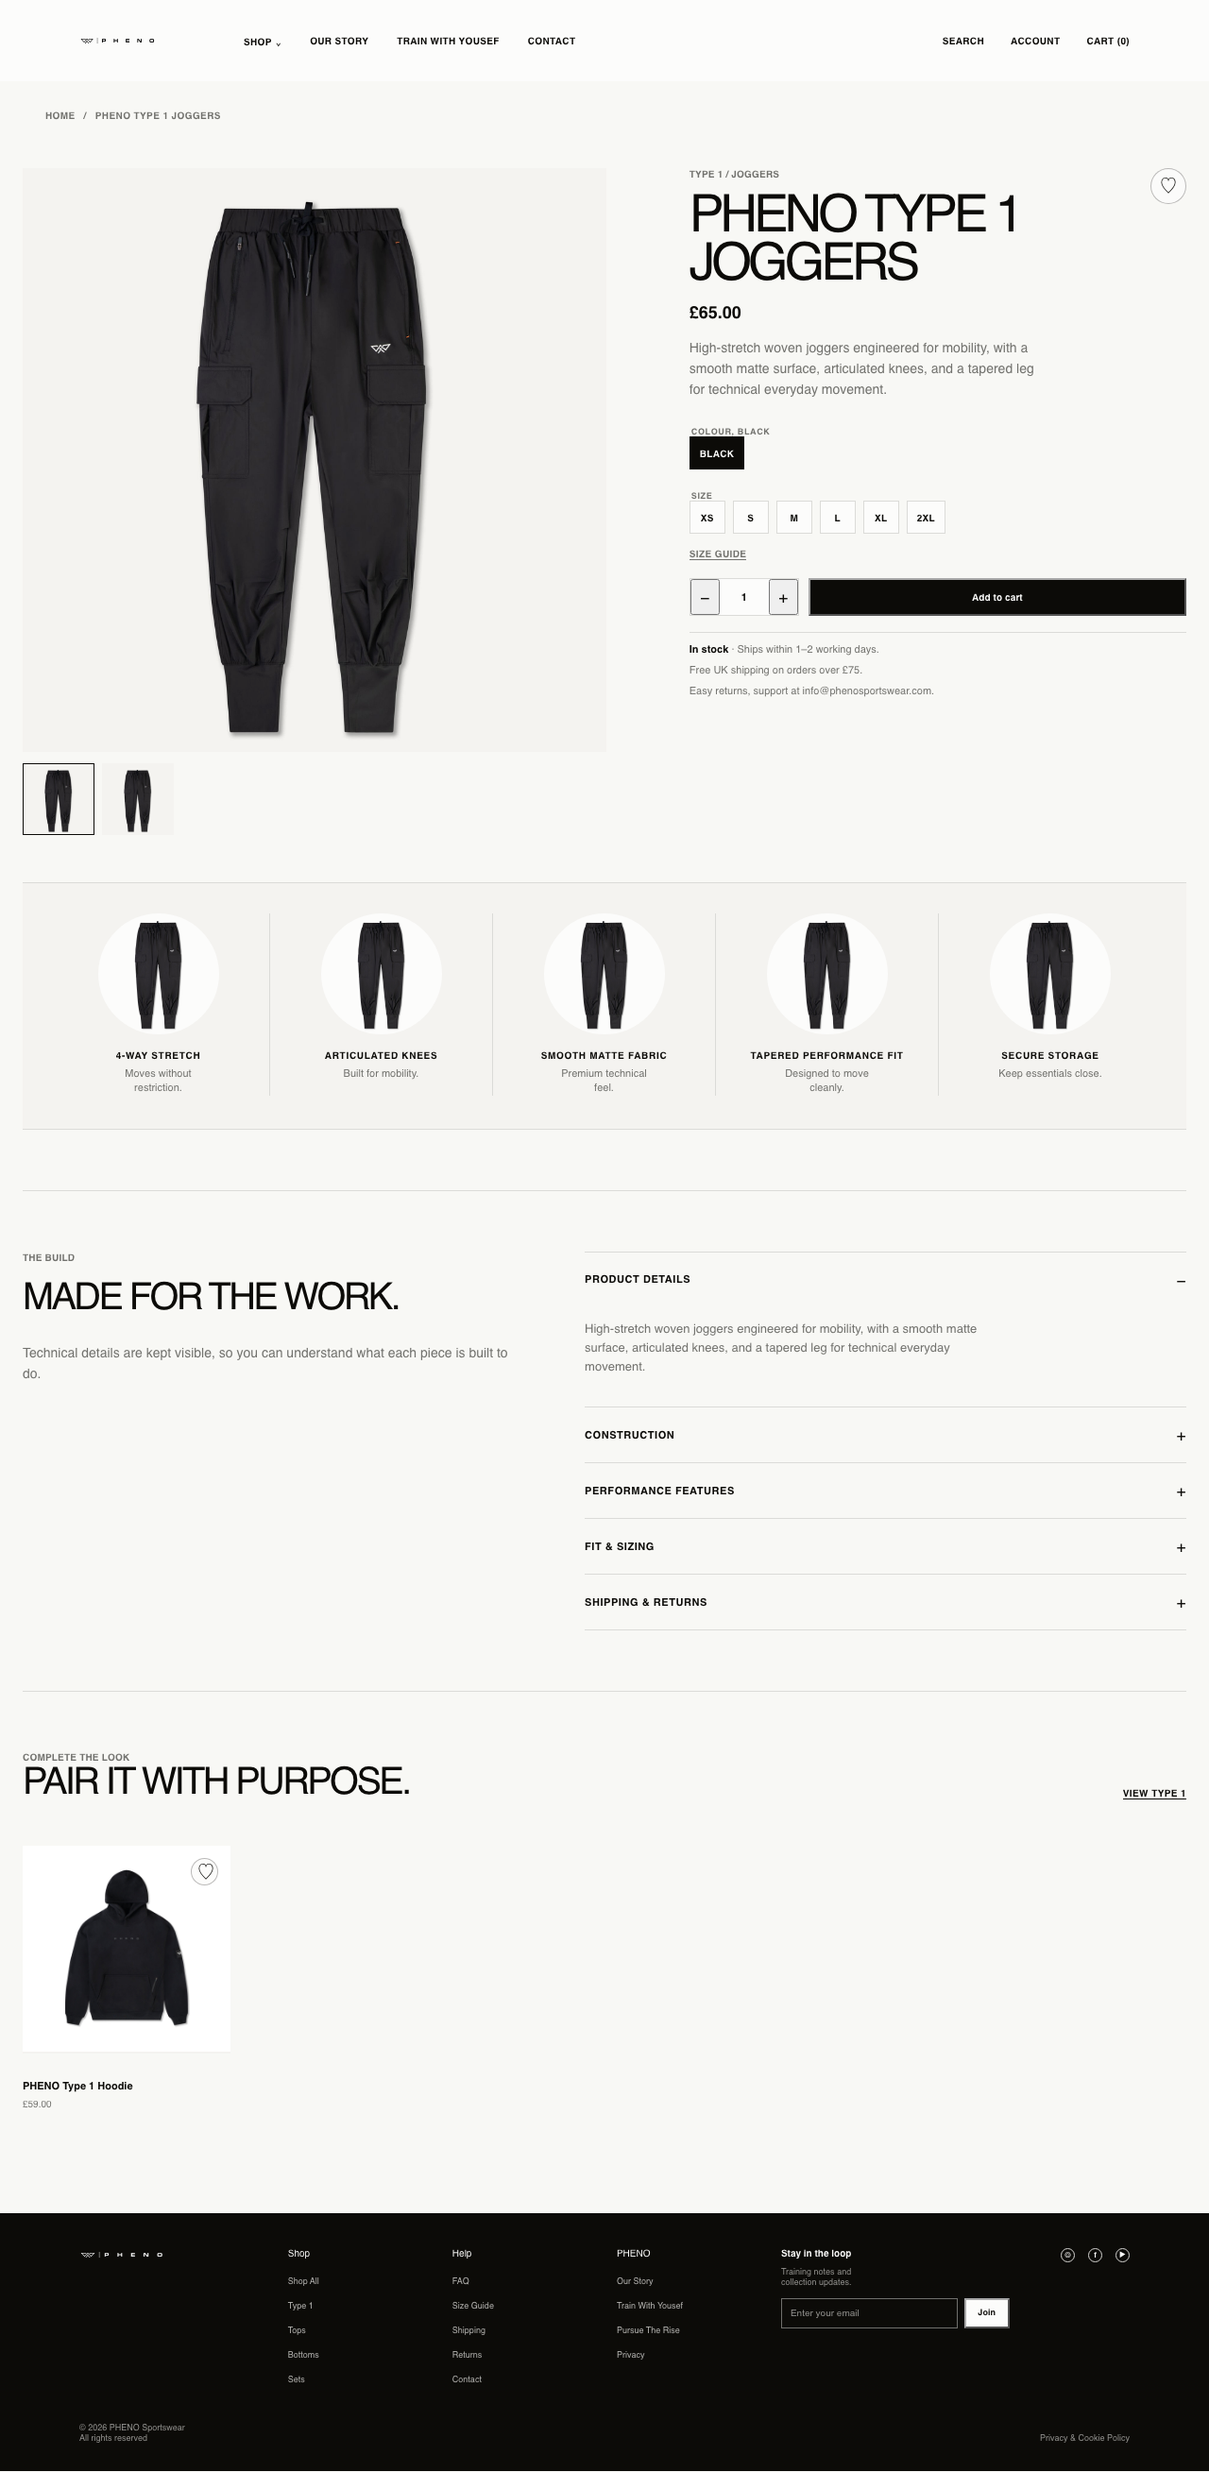
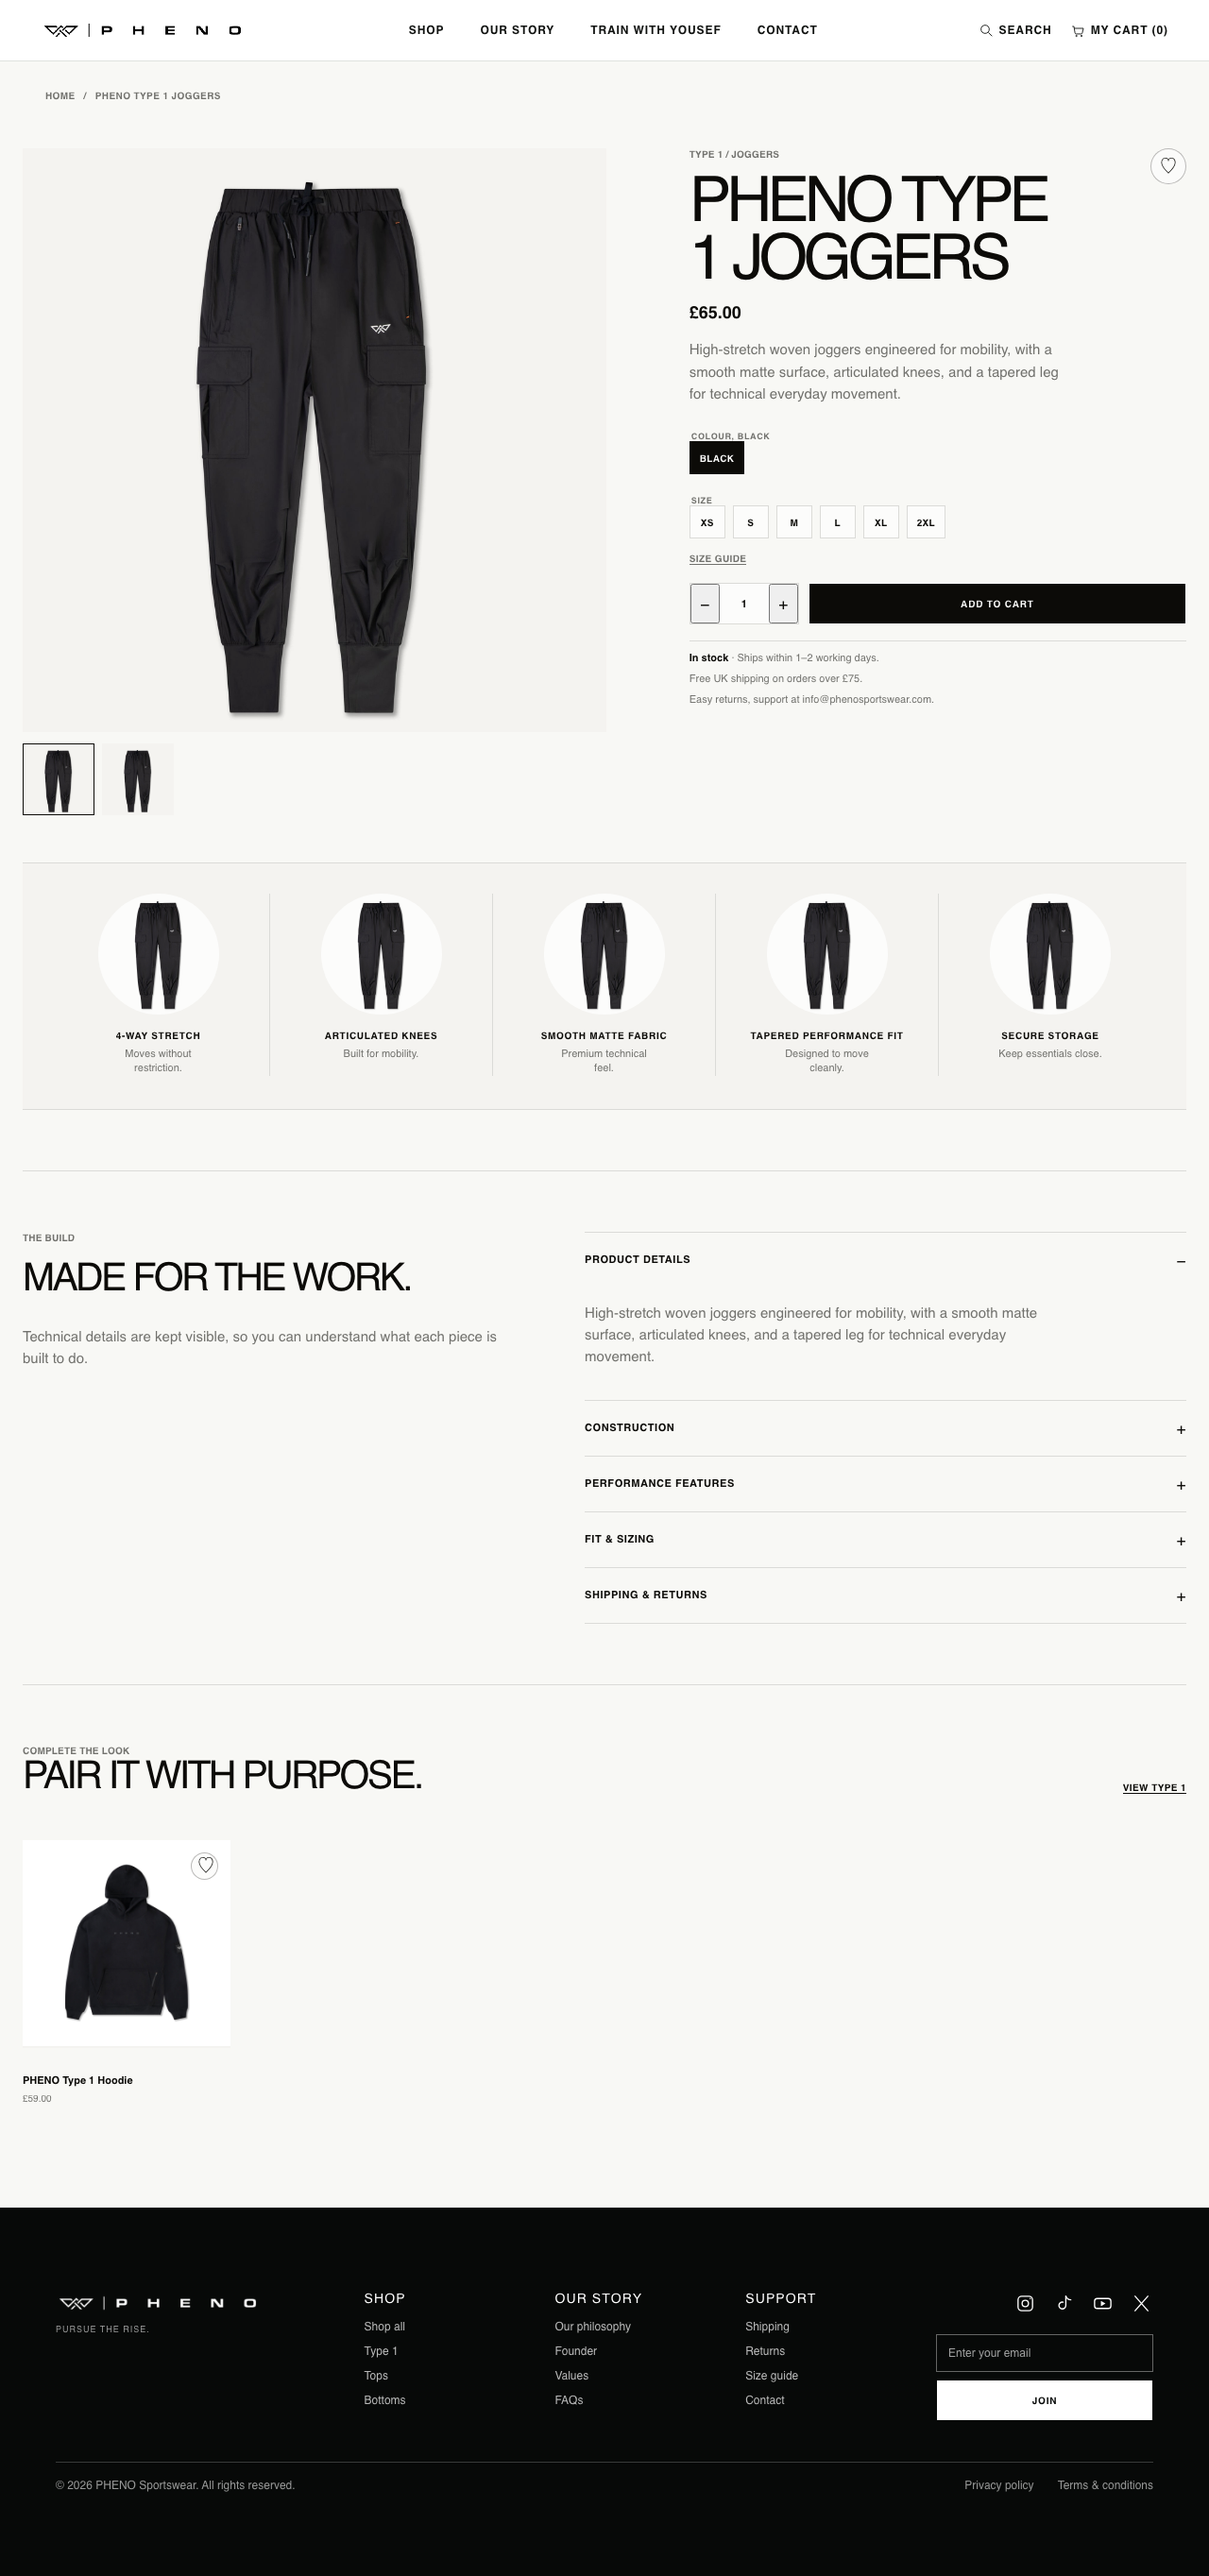
Preserve product feature strip styling

diff --git a/src/app/styles.css b/src/app/styles.css
@@ -8001,6 +8001,124 @@ h2 {
   }
 }
 
+/* Product feature strip: remove this block with ProductFeatureStrip.tsx to revert. */
+.product-feature-strip {
+  margin: -46px 0 64px;
+  padding: 32px 26px 35px;
+  border-block: 1px solid var(--line);
+  background: var(--surface);
+}
+
+.product-feature-strip__list {
+  display: flex;
+  width: 100%;
+  flex-wrap: wrap;
+  margin: 0;
+  padding: 0;
+  list-style: none;
+}
+
+.product-feature-strip__item {
+  display: flex;
+  min-width: 145px;
+  flex: 1 1 145px;
+  align-items: flex-start;
+  justify-content: center;
+  padding: 0 18px;
+  border-right: 1px solid var(--line);
+  text-align: center;
+}
+
+.product-feature-strip__item:last-child {
+  border-right: 0;
+}
+
+.product-feature-strip__item figure {
+  display: grid;
+  width: 100%;
+  max-width: 190px;
+  justify-items: center;
+  gap: 17px;
+  margin: 0;
+}
+
+.product-feature-strip__image {
+  width: clamp(104px, 10vw, 136px);
+  aspect-ratio: 1;
+  overflow: hidden;
+  border-radius: 50%;
+  background: var(--paper);
+}
+
+.product-feature-strip__image img {
+  display: block;
+  width: 100%;
+  height: 100%;
+  object-fit: cover;
+  mix-blend-mode: multiply;
+}
+
+.product-feature-strip__item figcaption {
+  display: grid;
+  gap: 7px;
+  justify-items: center;
+}
+
+.product-feature-strip__item strong {
+  color: var(--ink);
+  font-size: 10px;
+  font-weight: 700;
+  letter-spacing: 0.07em;
+  line-height: 1.15;
+  text-transform: uppercase;
+}
+
+.product-feature-strip__item figcaption span {
+  max-width: 18ch;
+  color: var(--muted);
+  font-size: 11px;
+  line-height: 1.35;
+}
+
+@media (max-width: 720px) {
+  .product-feature-strip {
+    margin-top: -43px;
+    margin-bottom: 50px;
+    padding: 28px 0 30px;
+  }
+
+  .product-feature-strip__list {
+    flex-wrap: nowrap;
+    overflow-x: auto;
+    padding: 0 18px 4px;
+    scrollbar-width: none;
+    scroll-snap-type: x mandatory;
+  }
+
+  .product-feature-strip__list::-webkit-scrollbar {
+    display: none;
+  }
+
+  .product-feature-strip__item {
+    flex: 0 0 min(40vw, 160px);
+    min-width: 0;
+    padding: 0 14px;
+    scroll-snap-align: start;
+  }
+
+  .product-feature-strip__item:last-child {
+    border-right: 0;
+  }
+
+  .product-feature-strip__item figure {
+    max-width: none;
+  }
+
+  .product-feature-strip__image {
+    width: 112px;
+  }
+}
+
 
 /* Shared primary action system: keep CTA buttons consistent across every page. */
 :root {
